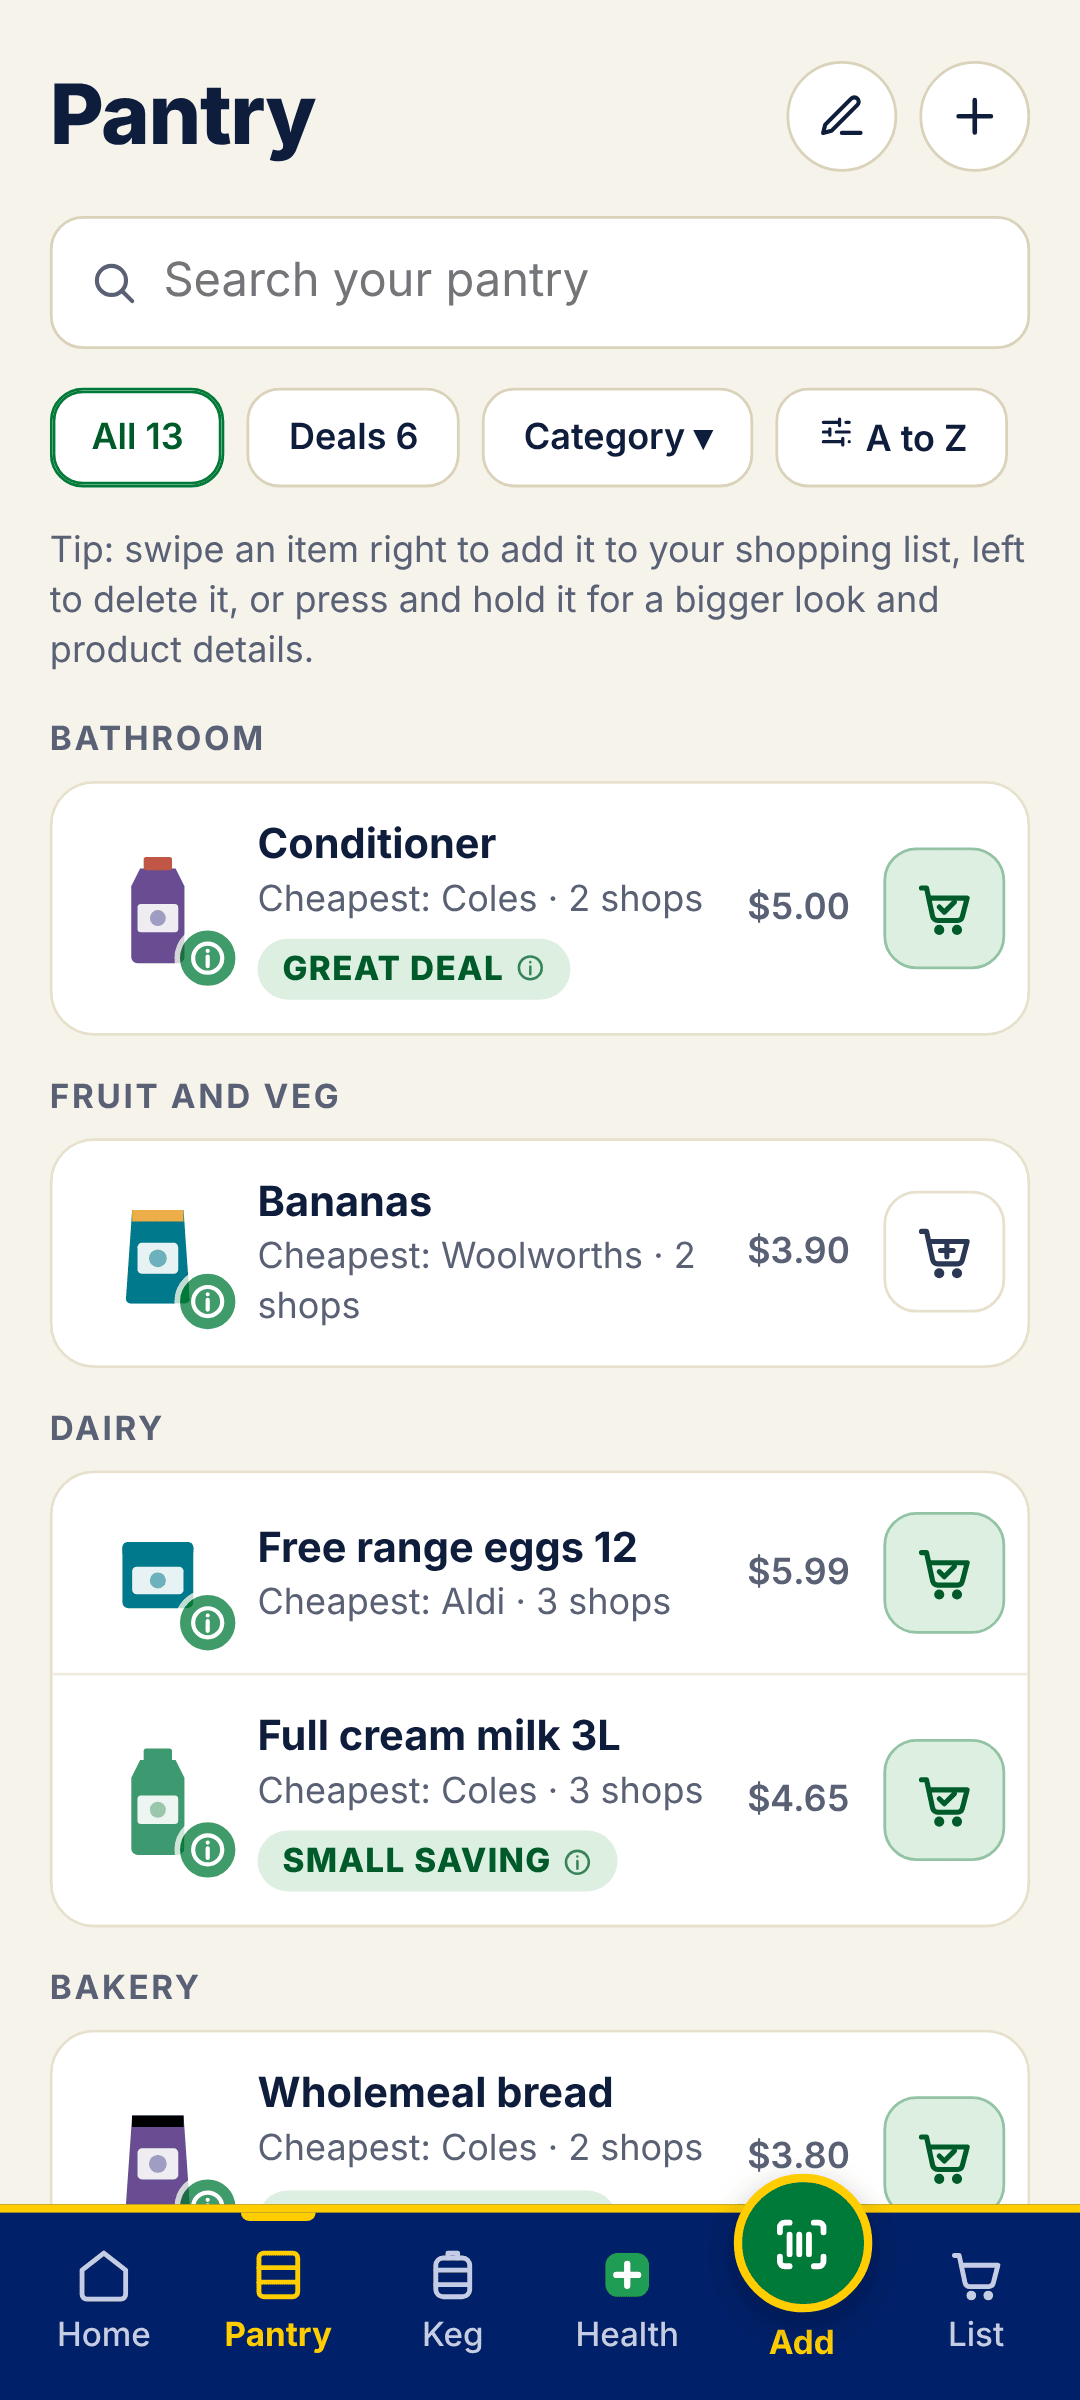
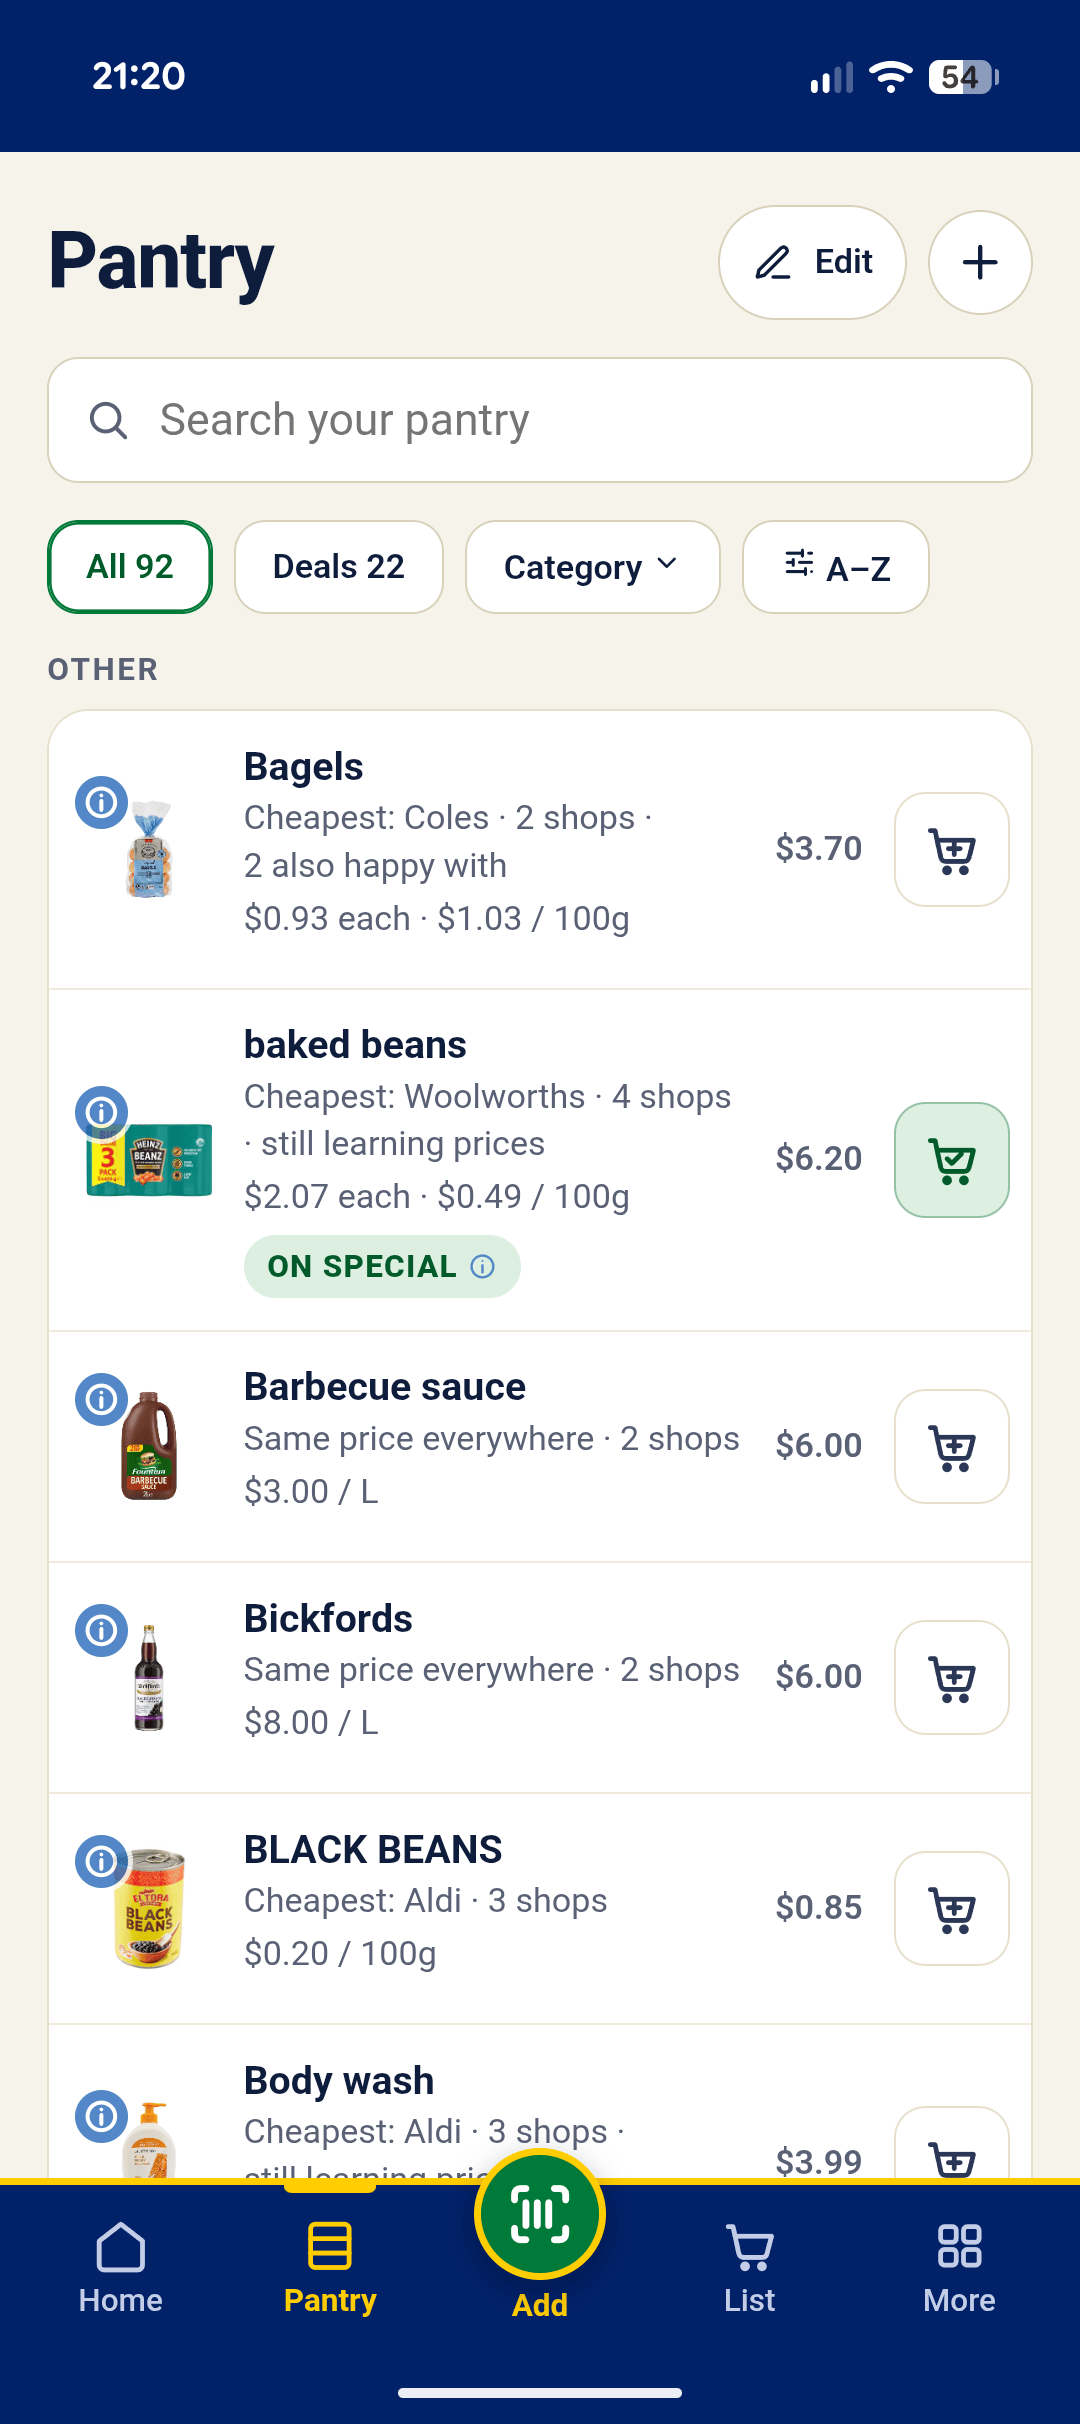
New screenshots for 0.11.1: real phone screenshots, real products

diff --git a/README.md b/README.md
@@ -35,13 +35,21 @@
   <a href="PRIVACY.md">Privacy</a>
 </p>
 
-<p align="center"><img src="docs/screenshots/showcase-095.png" alt="Restock 0.9.5: Home and the Shopping list on a phone, and the Restock server's web page on a computer"></p>
+<p align="center"><img src="docs/screenshots/showcase-0111.png" alt="Restock 0.11.1: Home and the Shopping list on a phone, and the Restock server's web page on a computer"></p>
 
 | | | | |
-|---|---|---|---|
-| ![Home: a greeting and the date, your Shopping list total, and this week's deals](docs/screenshots/home-095.png) | ![Pantry: everything you buy, with where it's cheapest and today's verdict](docs/screenshots/pantry-095.png) | ![An item: the verdict, its usual price, and your product at each shop](docs/screenshots/item-095.png) | ![Add: tap results to tick them into the bar at the bottom, then tap to add](docs/screenshots/add-095.png) |
-| ![Shopping list by shop, with Shop around and what it saves](docs/screenshots/list-by-shop-095.png) | ![The General list: things Home Assistant added that match nothing in your pantry](docs/screenshots/list-general-095.png) | ![The Health tab: your chemist items and their prices](docs/screenshots/health-095.png) | ![My catalogue: specials on the things you buy, a page for each shop](docs/screenshots/catalogue-095.png) |
-| ![Undo: a small Undo appears for a few seconds after a change](docs/screenshots/undo-095.png) | ![Restock on iPhone: the server's web app on the home screen, with the Shopping list](docs/screenshots/iphone-list-095.png) | ![The server's Data tab: spending each month, from what you ticked off](docs/screenshots/web-data-095.png) | ![Dark mode in true black: Home](docs/screenshots/dark-home-095.png) |
+|:---:|:---:|:---:|:---:|
+| ![Home: a greeting and the date, your Shopping list total, and what's on special now](docs/screenshots/home-0111.png) | ![Pantry: everything you buy, with where it's cheapest](docs/screenshots/pantry-0111.png) | ![An item: the verdict, its usual price, and your product at each shop](docs/screenshots/item-0111.png) | ![Add: search results at a shop, ready to tick](docs/screenshots/add-0111.png) |
+| ![Shopping list by shop, with one shop open](docs/screenshots/list-by-shop-0111.png) | ![Compare shops: Shop around, and what it costs if you only go to one shop](docs/screenshots/compare-shops-0111.png) | ![My specials: what's on special at each shop you use](docs/screenshots/my-specials-0111.png) | ![My catalogue: specials on the things you buy, a page for each shop](docs/screenshots/my-catalogue-0111.png) |
+| ![Price history: the chart, where today's price sits, and how often it's on special](docs/screenshots/price-chart-0111.png) | ![Shopping at one shop, in dark mode: tick things off as they go in the trolley](docs/screenshots/shopping-dark-0111.png) | ![Dark mode in true black: Home](docs/screenshots/dark-home-0111.png) | |
+
+The phone pictures are real screenshots from a phone running Restock.
+
+| | |
+|:---:|:---:|
+| ![The server's web page on a computer: Pantry](docs/screenshots/web-pantry-0111.png) | ![The server's Your data page: spending each month, from what you ticked off](docs/screenshots/web-data-0111.png) |
+
+The two web pictures use sample data: real products and prices, with a made-up year of price history and spending.
 
 > **Local first. Works without signal.** Your list, pantry and prices live on your phone, not in a cloud. In a shopping centre with no reception, your list still opens straight away, and you can tick things off, add items from your pantry or type new ones. It all syncs when you're back online. Only searching the shops for new products and live prices needs the internet. **A server is optional:** Restock works fully on its own, and your own Restock server adds things on top.
 
